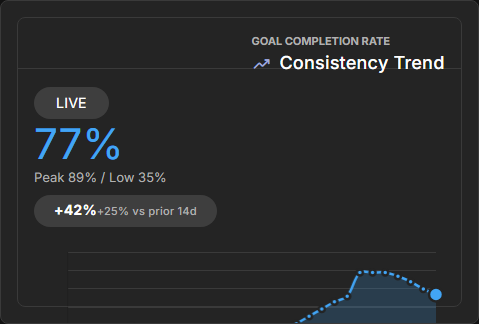
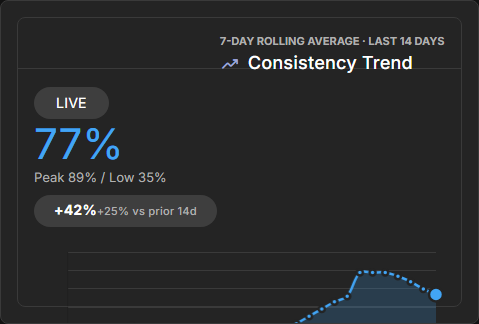
fix(consistency-trend): match design eyebrow text
Swap the tile-shell eyebrow from "Goal completion rate" to
"7-day rolling average · last 14 days" — matches design 9IpBQ which
describes what the chart actually plots.

Closes 069. Visual screenshot post-fix in docs/bugs/screenshots.

Changed region(s): [[0.4676, 0.0926, 0.9353, 0.2469]]

diff --git a/frontend/projects/commitments-dashboard-plugin/src/lib/tiles/consistency-trend/consistency-trend-tile/consistency-trend-tile.component.html b/frontend/projects/commitments-dashboard-plugin/src/lib/tiles/consistency-trend/consistency-trend-tile/consistency-trend-tile.component.html
@@ -1,4 +1,4 @@
-<commitments-tile-shell title="Consistency Trend" eyebrow="Goal completion rate" icon="trending_up" variant="chart">
+<commitments-tile-shell title="Consistency Trend" eyebrow="7-day rolling average · last 14 days" icon="trending_up" variant="chart">
   <cui-status-pill [variant]="pillVariant()" [pulse]="pillVariant() === 'live'" [label]="pillLabel()">
   </cui-status-pill>
 
